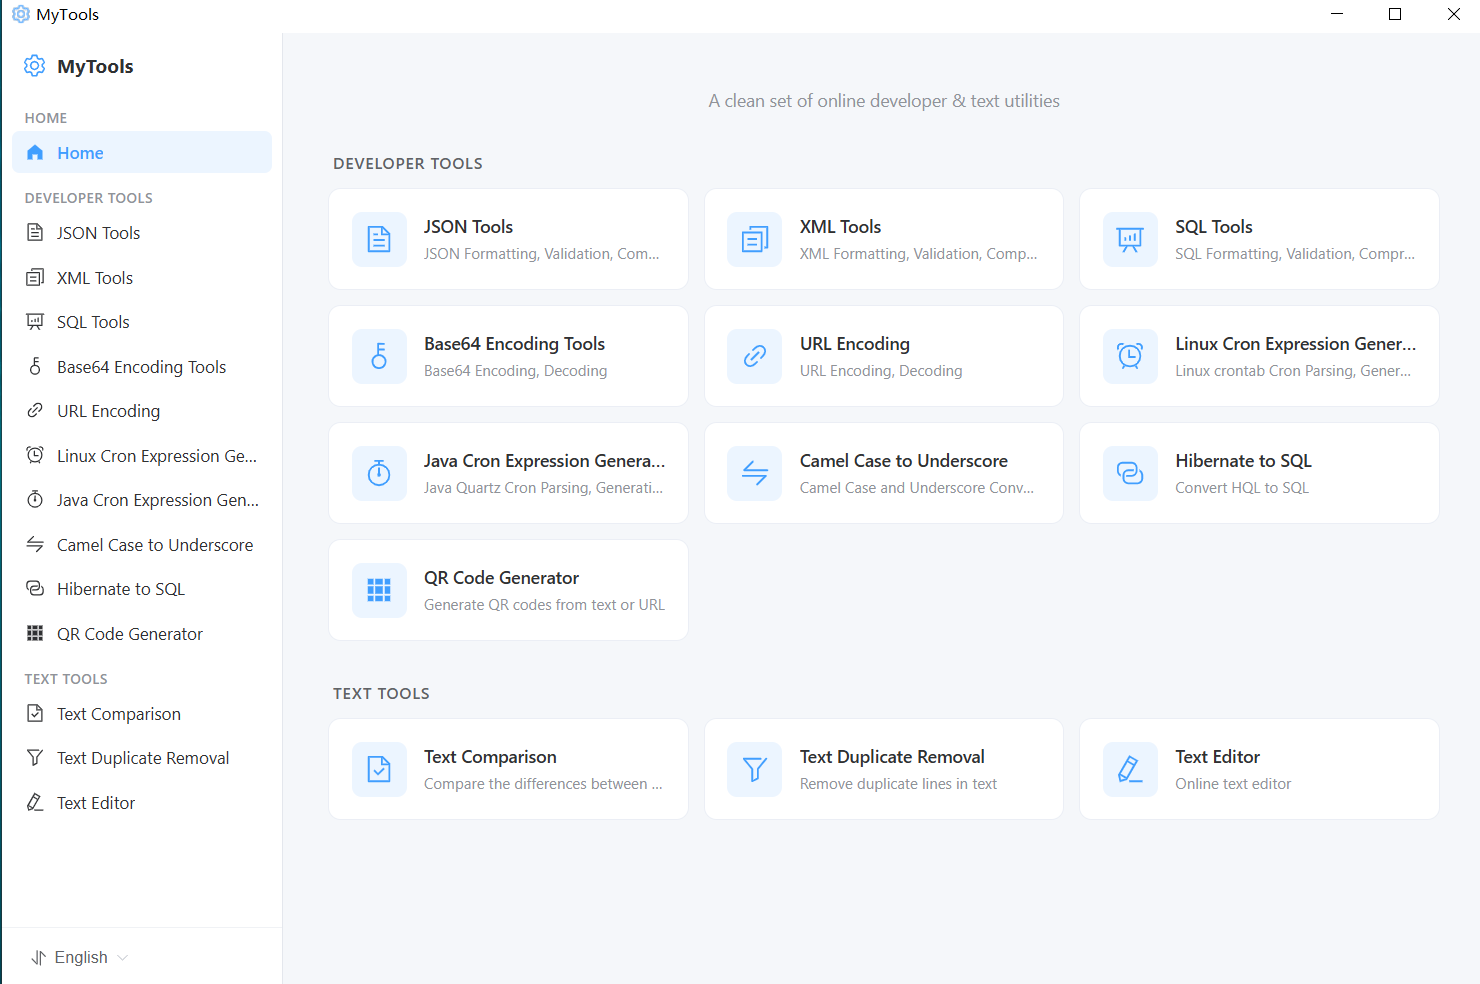
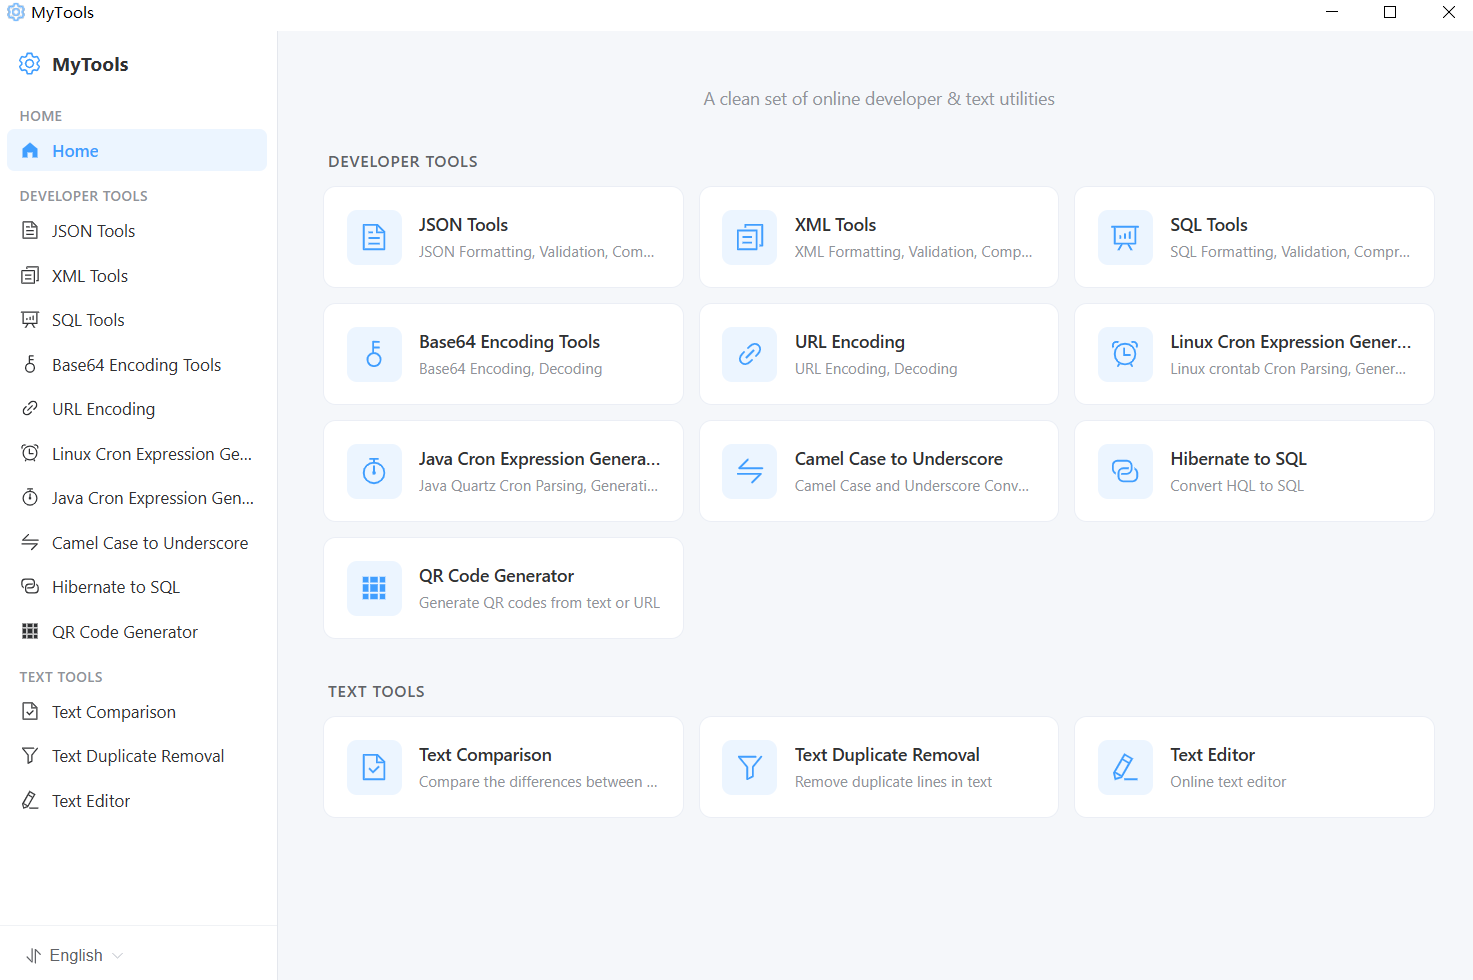
gui

diff --git a/README.md b/README.md
@@ -2,6 +2,10 @@
 
 A collection of everyday developer and text utilities, available as a web app and as a native desktop app built with Wails 3 (Go + Vue 3).
 
+<p align="center">
+  <img src="public/gui.png" alt="MyTools GUI" width="60%" style="box-shadow: 0 4px 12px rgba(0,0,0,0.2); border-radius: 8px;">
+</p>
+
 ## Features
 
 **Developer tools**
